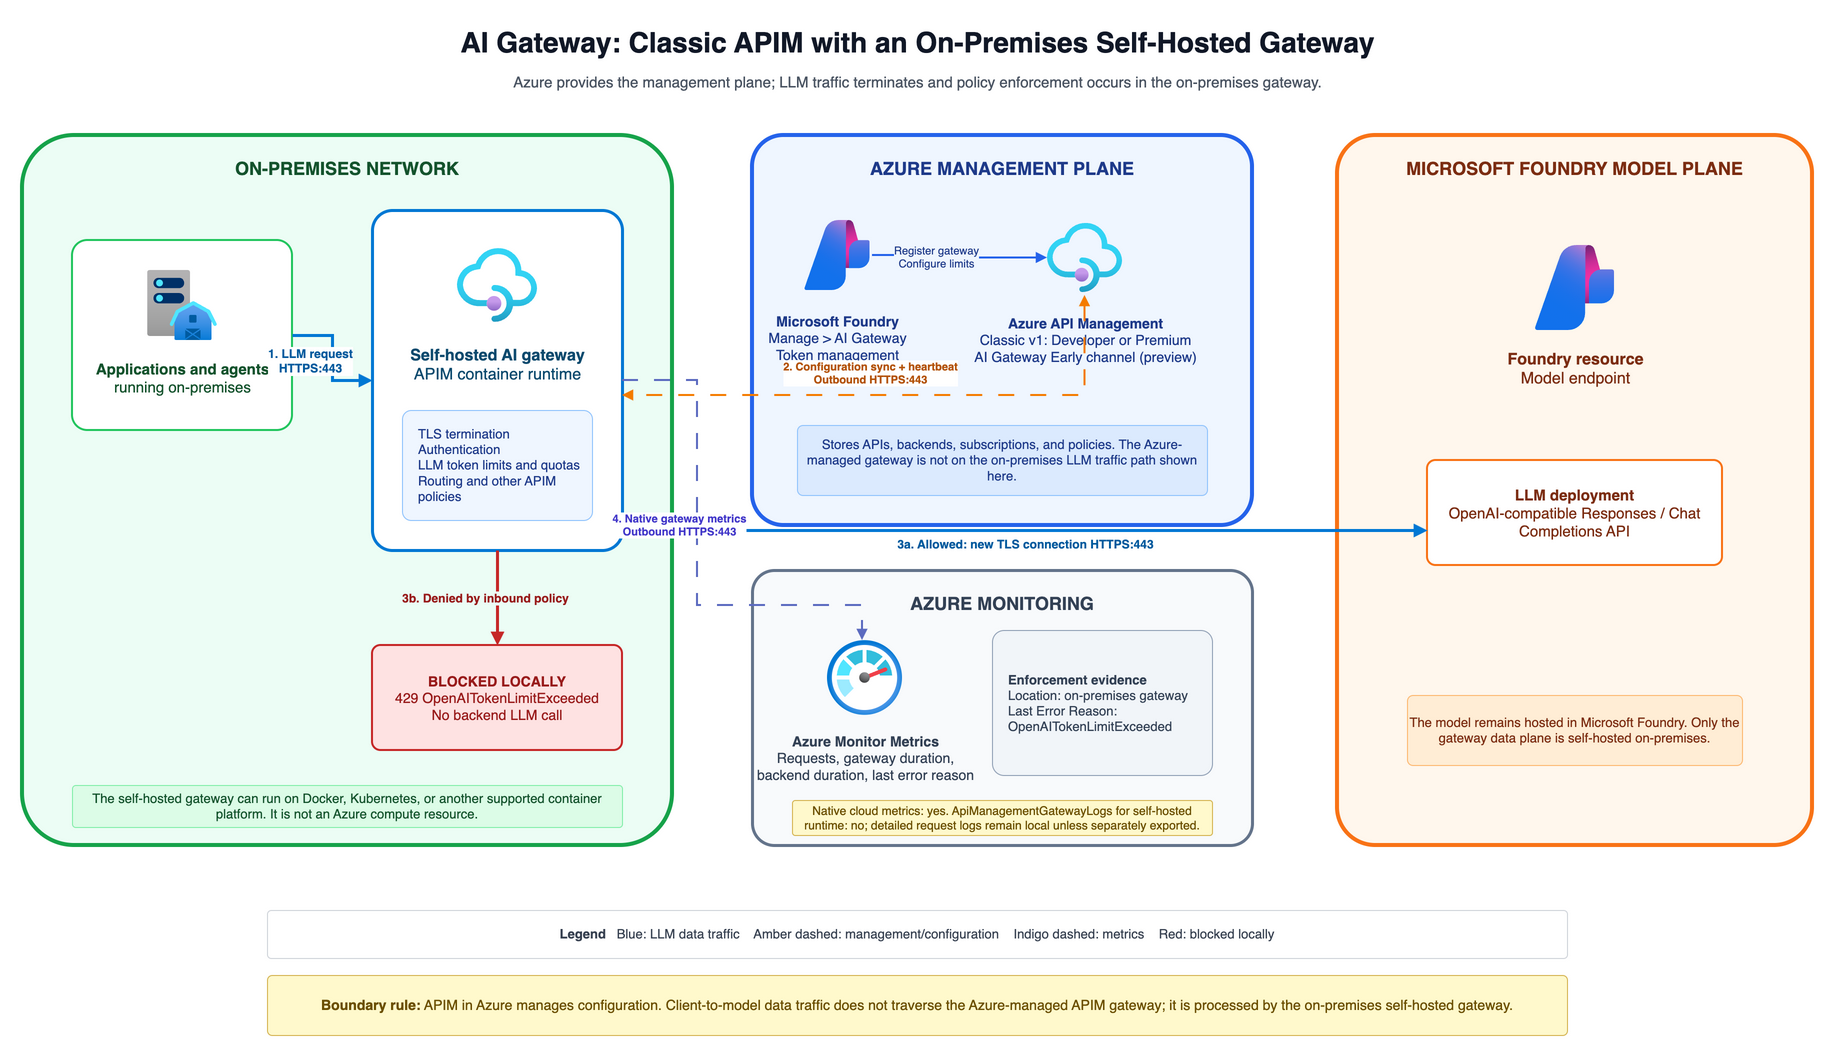
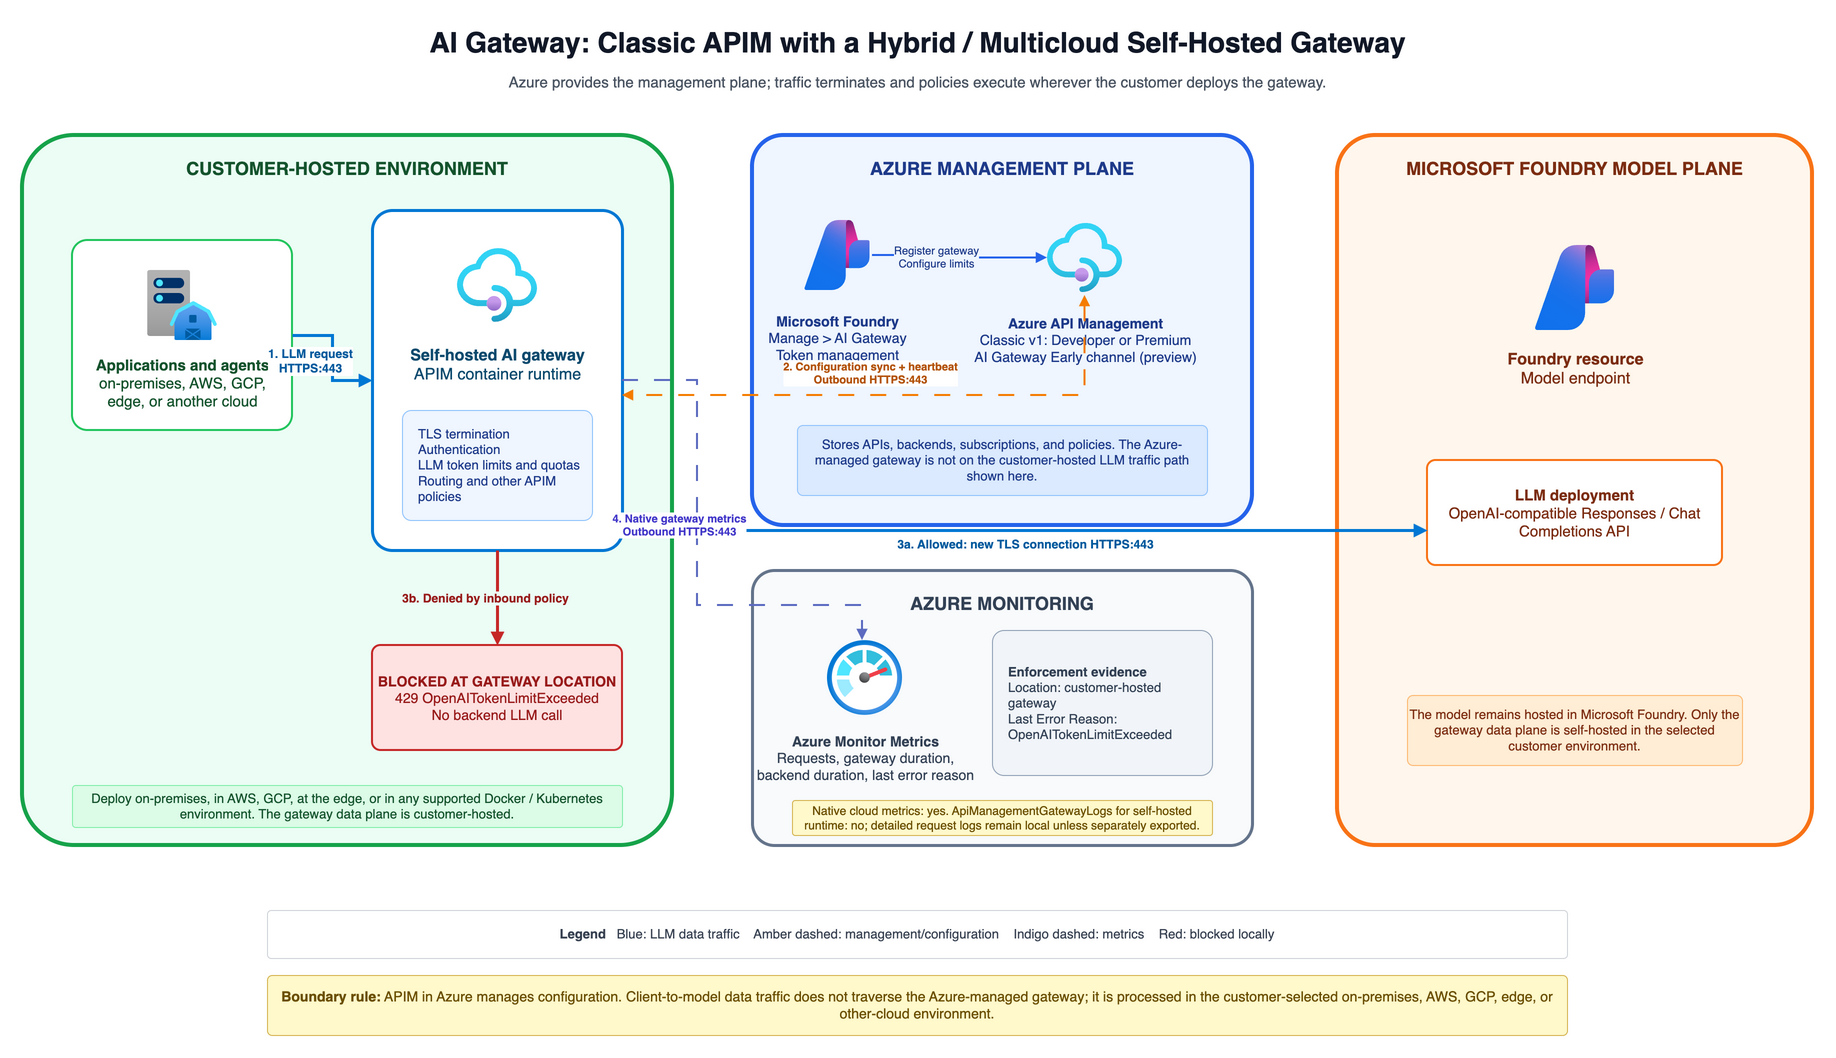
docs: clarify AI Gateway deployment boundaries

diff --git a/README.md b/README.md
@@ -1,6 +1,6 @@
 # Microsoft Foundry Networking — The Complete Guide
 
-> **Updated September 2026** — Covers Microsoft Foundry networking, private evaluation, and AI Gateway patterns, including classic APIM with an on-premises self-hosted gateway.
+> **Updated September 2026** — Covers Microsoft Foundry networking, private evaluation, and AI Gateway patterns, including classic APIM with a hybrid and multicloud self-hosted gateway for on-premises, AWS, GCP, edge, and other environments.
 
 [![Deploy To Azure](https://raw.githubusercontent.com/Azure/azure-quickstart-templates/master/1-CONTRIBUTION-GUIDE/images/deploytoazure.svg?sanitize=true)](https://portal.azure.com/#create/Microsoft.Template/uri/https%3A%2F%2Fraw.githubusercontent.com%2Froie9876%2FAzure-AI-Foundry-Networking%2Frefs%2Fheads%2Fmain%2Fbicep%2Fazuredeploy.json)
 
@@ -75,7 +75,7 @@
 - [Part 16: AI Gateway — Managed and Self-Hosted APIM](#part-16-ai-gateway--managed-and-self-hosted-apim)
   - [16.1 The Two Main AI Gateway Scenarios](#161-the-two-main-ai-gateway-scenarios)
   - [16.2 Scenario 1 — Foundry-Created Basic v2 APIM](#162-scenario-1--foundry-created-basic-v2-apim)
-  - [16.3 Scenario 2 — Classic APIM with an On-Premises Self-Hosted Gateway](#163-scenario-2--classic-apim-with-an-on-premises-self-hosted-gateway)
+  - [16.3 Scenario 2: Classic APIM with a Hybrid and Multicloud Self-Hosted Gateway](#163-scenario-2-classic-apim-with-a-hybrid-and-multicloud-self-hosted-gateway)
   - [16.4 Tested Deployment Walkthrough](#164-tested-deployment-walkthrough)
   - [16.5 Proving Local Token-Limit Enforcement](#165-proving-local-token-limit-enforcement)
   - [16.6 Monitoring and Logging](#166-monitoring-and-logging)
@@ -2985,13 +2985,13 @@ There are two main scenarios.
 | APIM tier | Basic v2 by default | Classic Developer for evaluation; Premium for production |
 | APIM management plane | Azure | Azure |
 | Gateway data plane | Azure-managed | Customer-hosted container |
-| Where the client TLS call terminates | Azure APIM | On-premises or other-cloud gateway |
+| Where the agent / LLM call terminates | Azure APIM | Wherever the customer hosts the gateway: on-premises, AWS, GCP, edge, or another cloud |
 | Where APIM policies execute | Azure | At the self-hosted gateway location |
 | Foundry integration | Standard documented flow | AI Gateway Early release channel; preview behavior |
-| Hybrid / multicloud placement | Clients can be anywhere, gateway remains in Azure | Gateway can run on-premises, another cloud, or supported container infrastructure |
+| Workload placement | Foundry agents, APIM gateway, and Foundry models all run in Azure | Applications, agents, and the self-hosted gateway can run on-premises, AWS, GCP, edge, or another supported container environment |
 | Native Azure Monitor metrics | Yes | Yes, reported by the self-hosted gateway |
 | `ApiManagementGatewayLogs` | Available when APIM diagnostics are enabled | Self-hosted runtime diagnostic logs are not uploaded to this table |
-| Best fit | Fast setup and Azure-hosted governance | Local traffic termination, hybrid policy enforcement, or data-path locality requirements |
+| Best fit | Foundry-native agents and LLM calls with fully Azure-hosted governance | Hybrid or multicloud traffic termination, policy enforcement near the workload, or data-path locality requirements |
 
 > **Preview note (validated September 2026):** The public Foundry requirements page
 > still describes existing APIM selection as v2-only. A classic Developer instance
@@ -3003,7 +3003,8 @@ There are two main scenarios.
 
 When you select **Manage → AI Gateway → Add AI Gateway → Create new**, Foundry
 creates a **Basic v2** APIM instance. Both the APIM management plane and gateway data
-plane run in Azure.
+plane run in Azure. In this scenario, the Foundry agents, AI Gateway, and Foundry model
+deployments are all Azure-hosted; there is no separate customer-hosted gateway runtime.
 
 ![Foundry-created Basic v2 managed AI Gateway topology](docs/images/ai-gateway-foundry-basic-v2-managed.png)
 
@@ -3011,7 +3012,7 @@ Editable source: [Basic v2 managed AI Gateway diagram](docs/ai-gateway-foundry-b
 
 #### Request flow
 
-1. An application or agent calls the APIM gateway endpoint.
+1. A Foundry agent sends its agent or LLM call through the APIM gateway endpoint.
 2. The Azure-managed APIM gateway terminates TLS and authenticates the caller.
 3. APIM evaluates the project token-limit, quota, and other configured policies.
 4. An allowed request is forwarded to the Foundry model endpoint by using the APIM
@@ -3019,10 +3020,14 @@ Editable source: [Basic v2 managed AI Gateway diagram](docs/ai-gateway-foundry-b
 5. A denied request stops in Azure APIM and returns a policy response such as `429`
    for a token-rate limit or `403` for a total token quota.
 
+The managed AI Gateway can therefore enforce both Foundry agent API traffic and the
+underlying LLM calls while every component remains in Azure.
+
 #### When to use it
 
 - You want the shortest supported path from Foundry to an AI Gateway.
-- Keeping the gateway data plane in Azure meets the workload's requirements.
+- Your agents and models run in Foundry and keeping the complete gateway path in Azure
+  meets the workload's requirements.
 - Basic v2 capacity is sufficient for development or testing.
 - You want APIM diagnostics and metrics through the normal Azure-managed gateway path.
 
@@ -3030,16 +3035,18 @@ For production throughput or private networking, reuse an existing **Standard v2
 **Premium v2** APIM instance instead of creating Basic v2. A private Foundry resource
 also requires a compatible private APIM networking configuration.
 
-### 16.3 Scenario 2 — Classic APIM with an On-Premises Self-Hosted Gateway
+### 16.3 Scenario 2: Classic APIM with a Hybrid and Multicloud Self-Hosted Gateway
 
 In this scenario, a classic APIM instance remains the Azure management plane, while a
-containerized APIM gateway runs in an on-premises network. The application or agent
-calls this on-premises endpoint. The gateway terminates TLS, executes the Foundry-created
-APIM policy locally, and opens a separate outbound TLS connection to the Foundry model.
+containerized APIM gateway runs in a customer-selected environment. That environment can
+be an on-premises data center, AWS, GCP, an edge location, or another cloud or container
+platform. The application or agent calls the gateway in that environment. The gateway
+terminates TLS, executes the Foundry-created APIM policy at its deployment location, and
+opens a separate outbound TLS connection to the Foundry model.
 
-![Classic APIM with an on-premises self-hosted AI Gateway topology](docs/images/ai-gateway-classic-apim-self-hosted-on-prem.png)
+![Classic APIM with a hybrid and multicloud self-hosted AI Gateway topology](docs/images/ai-gateway-classic-apim-self-hosted-on-prem.png)
 
-Editable source: [Classic APIM self-hosted gateway diagram](docs/ai-gateway-classic-apim-self-hosted-on-prem.drawio)
+Editable source: [Hybrid and multicloud self-hosted gateway diagram](docs/ai-gateway-classic-apim-self-hosted-on-prem.drawio)
 
 #### Control plane versus data plane
 
@@ -3047,7 +3054,7 @@ Editable source: [Classic APIM self-hosted gateway diagram](docs/ai-gateway-clas
 |---|---|---|
 | Foundry control experience | Azure | Associates the APIM instance, enables projects, and configures project token limits and quotas |
 | APIM management plane | Azure classic APIM | Stores APIs, backends, products, subscriptions, policies, and self-hosted gateway registrations |
-| APIM gateway data plane | On-premises container platform | Terminates client TLS, authenticates requests, evaluates policies, forwards allowed calls, and blocks denied calls |
+| APIM gateway data plane | Customer-hosted container platform: on-premises, AWS, GCP, edge, or another cloud | Terminates client TLS, authenticates requests, evaluates policies, forwards allowed calls, and blocks denied calls |
 | Foundry model plane | Azure | Hosts the selected model deployment and processes only requests allowed by the gateway |
 
 The self-hosted gateway needs outbound HTTPS connectivity to its APIM configuration
@@ -3055,10 +3062,11 @@ endpoint for configuration updates, heartbeat, and metrics. It also needs HTTPS 
 to the configured Foundry model endpoint. Clients do not need to call the Azure-managed
 APIM gateway in this topology.
 
-> The self-hosted gateway is **not an agent**. An on-premises agent may call through it
-> without being deployed or registered in Foundry. Register the agent as a custom agent
-> only when Foundry inventory, proxy governance, block/unblock controls, or correlated
-> OpenTelemetry agent traces are required.
+> The self-hosted gateway is **not an agent**. An agent running on-premises, in AWS,
+> GCP, at the edge, or in another cloud may call through it without being deployed or
+> registered in Foundry. Register the agent as a custom agent only when Foundry
+> inventory, proxy governance, block/unblock controls, or correlated OpenTelemetry agent
+> traces are required.
 
 ### 16.4 Tested Deployment Walkthrough
 
@@ -3097,7 +3105,10 @@ features, and monitor [APIM release announcements](https://github.com/Azure/API-
 #### Step 3 — Register and deploy the self-hosted gateway
 
 Create a self-hosted gateway registration in APIM, then deploy the generated container
-configuration to Docker or Kubernetes in the target on-premises environment.
+configuration to Docker or Kubernetes in the target customer-hosted environment. The
+same deployment model applies to on-premises infrastructure, AWS, GCP, edge locations,
+and other clouds that provide a supported container runtime and the required outbound
+connectivity.
 
 ![Self-hosted gateway registered under the classic APIM instance](docs/images/ai-gateway-self-hosted-apim-portal.png)
 
@@ -3156,13 +3167,13 @@ PUT /subscriptions/<subscription-id>/resourceGroups/<resource-group>/providers/
 Restart the evaluation container or wait for configuration synchronization. Its logs
 should show the gateway/API association and `ConfigInitialSyncCompleted`.
 
-#### Step 6 — Call the model through the on-premises gateway
+#### Step 6 — Call the model through the customer-hosted gateway
 
 Use the APIM project subscription key and the generated API path. In the validated
 environment, the generated subscription header was `api-key`.
 
 ```bash
-curl --resolve '<apim-name>.azure-api.net:8443:<on-prem-gateway-ip>' \
+curl --resolve '<apim-name>.azure-api.net:8443:<self-hosted-gateway-ip>' \
   -X POST "https://<apim-name>.azure-api.net:8443/<foundry-api-id>/openai/v1/responses" \
   -H "Content-Type: application/json" \
   -H "api-key: <project-subscription-key>" \
@@ -3174,12 +3185,12 @@ curl --resolve '<apim-name>.azure-api.net:8443:<on-prem-gateway-ip>' \
 ```
 
 The allowed test returned HTTP `200` and `SELF_HOSTED_OK`. The local gateway record
-included the on-premises gateway location, API ID, project product, backend URL, and
+included the customer-hosted gateway location, API ID, project product, backend URL, and
 `backendResponseCode: 200`.
 
 ### 16.5 Proving Local Token-Limit Enforcement
 
-To prove that the Foundry-created policy executes in the on-premises gateway rather
+To prove that the Foundry-created policy executes in the customer-hosted gateway rather
 than merely forwarding requests, configure a deliberately low test limit.
 
 1. In Foundry, open **Manage → AI Gateway**.
@@ -3209,7 +3220,7 @@ The validation sequence produced:
 The two denied self-hosted gateway records contained:
 
 ```text
-region:      <on-premises gateway location>
+region:      <self-hosted gateway location>
 response:    429
 source:      llm-token-limit
 reason:      OpenAITokenLimitExceeded
@@ -3218,7 +3229,7 @@ section:     inbound
 ```
 
 They did **not** contain `backendUrl`, `backendTime`, or `backendResponseCode`. This is
-the decisive proof that the policy stopped each request at the on-premises gateway
+the decisive proof that the policy stopped each request at the customer-hosted gateway
 before the Foundry model was called.
 
 ![Azure Monitor metrics showing OpenAITokenLimitExceeded at the self-hosted gateway](docs/images/ai-gateway-self-hosted-token-limit-metrics.png)
@@ -3259,12 +3270,12 @@ the Foundry token policy.
 APIM resource diagnostic settings apply to the Azure-managed gateway. The self-hosted
 gateway currently does **not** upload its diagnostic request logs into
 `ApiManagementGatewayLogs` or `AzureDiagnostics`. Enabling `allLogs` on the APIM
-resource therefore does not populate those tables with the on-premises container's
+resource therefore does not populate those tables with the customer-hosted container's
 request records.
 
 Detailed self-hosted request records remain in the container's standard output when
 `telemetry.logs.std=json` is configured. To centralize them, collect container stdout
-with the on-premises logging platform or an Azure Monitor Agent / OpenTelemetry pipeline.
+with the local logging platform or an Azure Monitor Agent / OpenTelemetry pipeline.
 Application Insights integration is optional and is not required for the native
 `OpenAITokenLimitExceeded` Metrics proof.
 
@@ -3273,8 +3284,8 @@ Application Insights integration is optional and is not required for the native
 - Use classic Developer only for evaluation. Design production deployments around
   supported Premium capacity, SLA, and high availability.
 - Pin a supported self-hosted gateway image version; do not use `latest` in production.
-- Put the gateway behind an on-premises load balancer or ingress controller and use a
-  trusted certificate for the production gateway hostname.
+- Put the gateway behind the target environment's load balancer or ingress controller
+  and use a trusted certificate for the production gateway hostname.
 - Run multiple gateway replicas and configure rate-limit synchronization where required.
 - Store gateway bootstrap tokens in a secret manager, keep their lifetime short, and
   rotate them. Prefer Microsoft Entra authentication where supported by the design.
@@ -3286,9 +3297,9 @@ Application Insights integration is optional and is not required for the native
   with separate Foundry credentials and network access from bypassing APIM.
 - Keep request and response body logging disabled unless the data classification and
   operational requirement explicitly permit prompt and completion capture.
-- Register on-premises agents in Foundry only when centralized agent governance or
-  trace correlation is needed. Gateway-based model governance works without agent
-  registration.
+- Register agents from on-premises, AWS, GCP, edge, or other clouds in Foundry only when
+  centralized agent governance or trace correlation is needed. Gateway-based model
+  governance works without agent registration.
 
 ### 16.8 Validation Checklist
 
@@ -3301,7 +3312,7 @@ Application Insights integration is optional and is not required for the native
 - [ ] The existing Foundry project shows gateway status `Enabled`.
 - [ ] The Foundry-generated API is assigned to the self-hosted gateway.
 - [ ] The gateway has synchronized the API, backend, product, subscription, and policy.
-- [ ] A valid-key model request through the on-premises gateway returns `200`.
+- [ ] A valid-key model request through the customer-hosted gateway returns `200`.
 - [ ] A deliberately invalid subscription key returns `401` without backend fields.
 - [ ] A temporary low token limit returns `429 OpenAITokenLimitExceeded` without backend
       fields.
